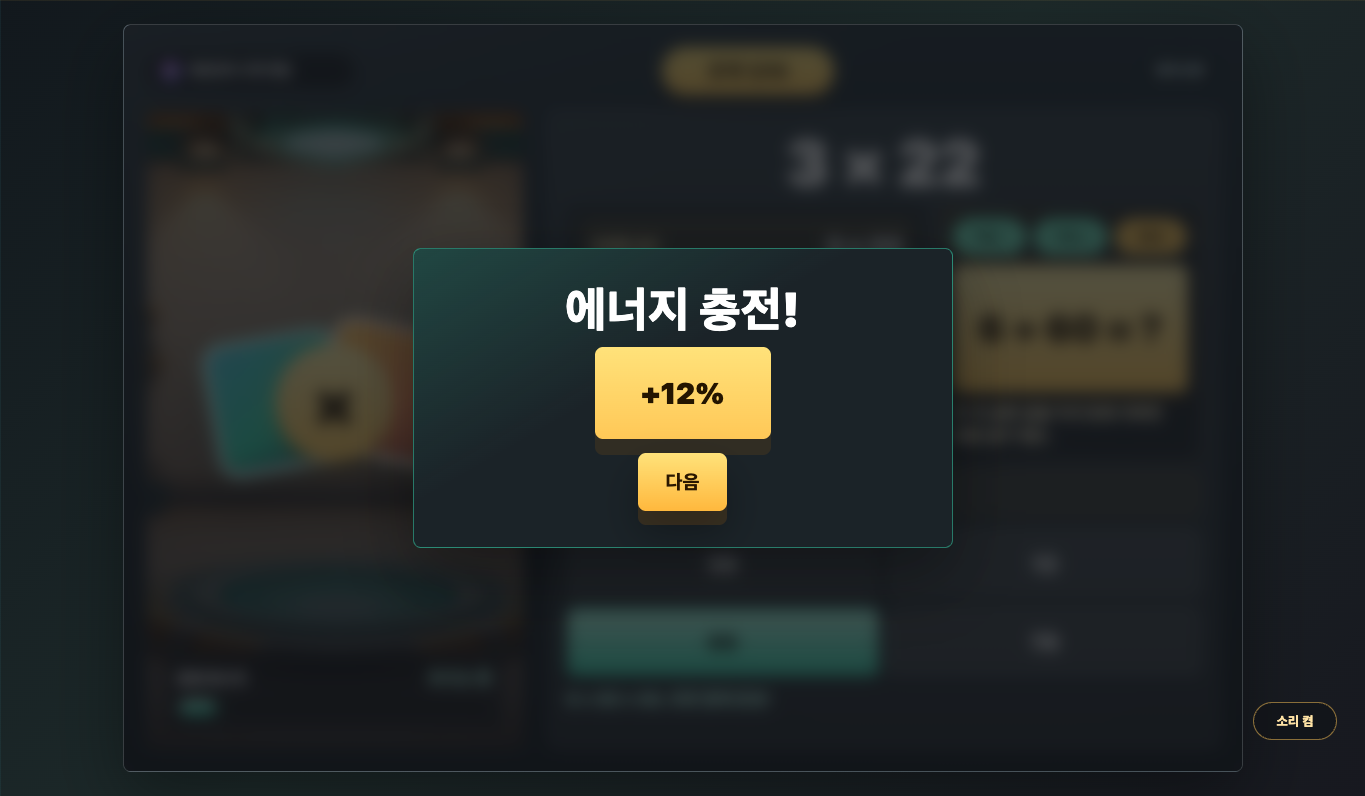
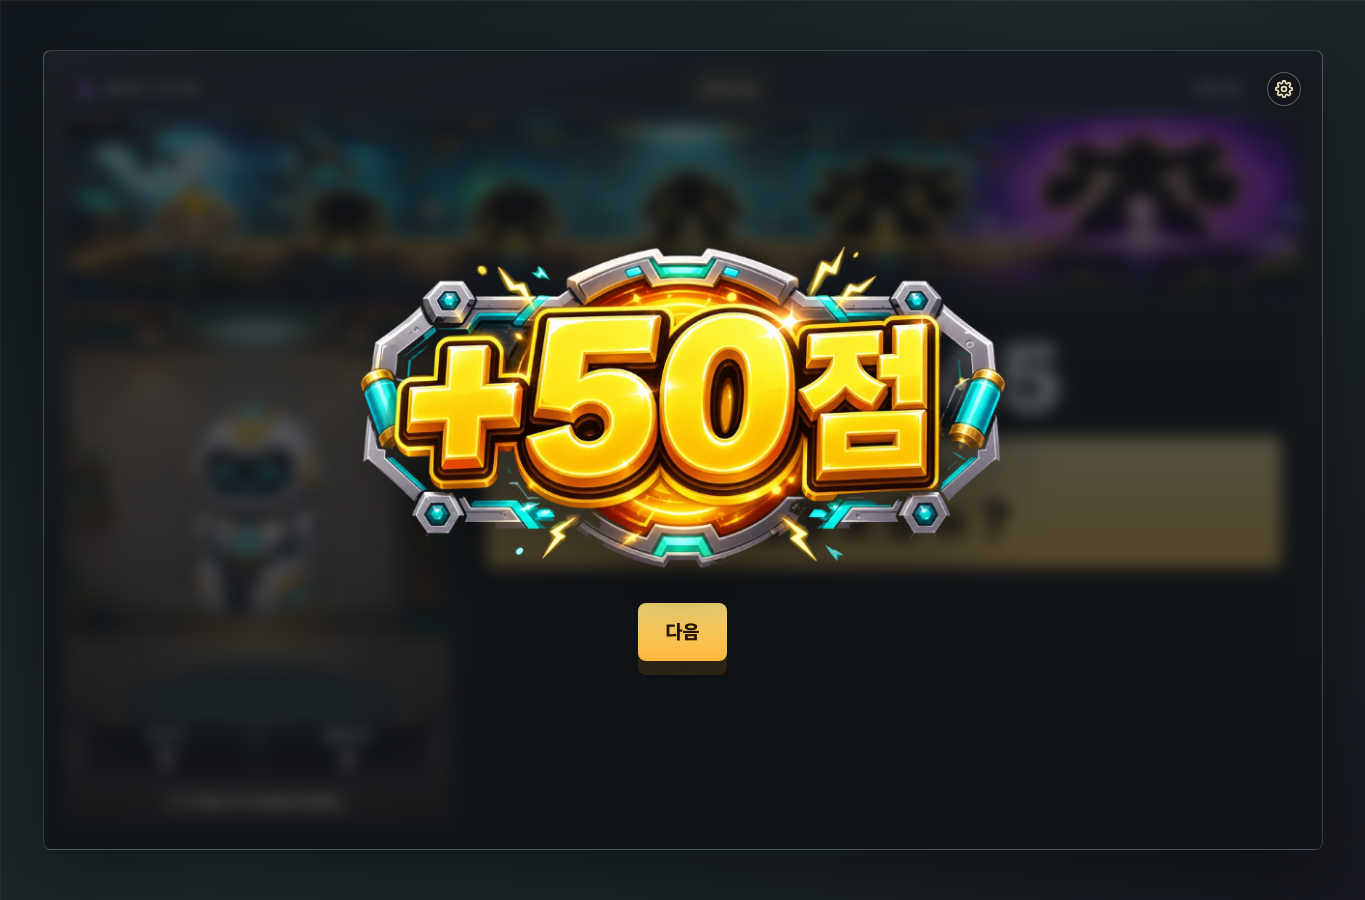
Update Fusion Reward Documentation

diff --git a/3-2-1-4-mathmon-fusion/README.md b/3-2-1-4-mathmon-fusion/README.md
@@ -21,7 +21,17 @@
 
 ## 화면
 
-스크린샷은 `screenshots/` 폴더에 저장합니다.
+대표 스크린샷은 `screenshots/` 폴더에 저장합니다.
+
+![첫 화면](screenshots/01-cover.png)
+
+![문제 화면](screenshots/03-problem.png)
+
+![보상 화면](screenshots/04-reward.png)
+
+![결과 화면](screenshots/05-result-success.png)
+
+최신 보상 화면은 생성형 점수 이미지가 배경 위에 바로 떠 보이도록 구성했습니다. 퍼센트 텍스트와 사각 카드 배경은 보이지 않고, `+50점`, `+100점`, `+200점`, `+500점`, `-50점`, `-100점`, `0점`, `무지개` 8개 점수 자산만 교체됩니다.
 
 ## RasterStage 이미지
 
@@ -44,11 +54,11 @@
 - `result-legend-generated.png/webp`: 무지개 코어 전설 로봇 매스몬 결과 화면
 - `result-retry-generated.png/webp`: 다시하기 결과 화면
 - `reward-score-*-source.png`: 보상 화면 고정 점수 이미지 생성 원본 8장
-- `reward-score-*-generated.webp`: 보상 화면 고정 점수 배포용 WebP 8장
+- `reward-score-*-generated.webp`: 보상 화면 고정 점수 배포용 투명 WebP 8장
 
 첫 화면과 결과 화면은 생성 이미지를 RasterStage 배경으로 씁니다. 첫 화면은 제목·목표·시작 버튼을 표준 오버레이로 두고, 결과 화면은 큰 `초거대 로봇!` 같은 등급 문구와 `9/10` 같은 정답 수를 생성형 이미지로 보여 줍니다. 단일 SVG 동적 레이어는 `100%`, `순위 보기`, `다시하기` 버튼 표면만 그립니다. 첫 화면은 `cover-robot-mathmon-generated.webp`를 사용해, 매스몬 자체가 둥글고 친근한 로봇형 캐릭터로 보이도록 했습니다.
 
-문제 화면은 생성 이미지 합체 공방 배경 위에 HTML/CSS 합체 보드를 올립니다. 상단 목표 지도는 3차시 지도처럼 생성 이미지가 로봇 실루엣과 합체 길을 담당합니다. 진행 상태는 하단바나 좌표 마커를 올리지 않고, 소형부터 전설까지 상태별 목표 지도 6장을 미리 준비해 현재 등급 로봇이 플랫폼에 등장한 이미지로 통째 교체합니다. 각 상태 이미지는 잘라 붙인 조각이 아니라 전체 목표판을 다시 생성한 배너라 로봇 주변 배경과 플랫폼 조명이 끊기지 않습니다. 교체 순간에는 강한 빛과 스캔 효과가 지나가 이미지가 바뀌는 티를 줄이고, 무지개 코어를 얻었을 때만 전설 로봇 이미지가 켜집니다. 보상 화면은 `+50점`, `+100점`, `+200점`, `+500점`, `-50점`, `-100점`, `0점`, `무지개` 생성형 점수 이미지 8장만 바꿔 보여 줍니다. 결과 화면 6장도 등급별 몸집, 색, 배경 에너지 차이가 분명하게 보이도록 다시 생성했습니다. 부품 1, 부품 2, 합체 수는 학생의 선택에 따라 채워지며, 마지막 단계에서 두 부품이 가운데로 합쳐지는 CSS 연출이 적용됩니다.
+문제 화면은 생성 이미지 합체 공방 배경 위에 HTML/CSS 합체 보드를 올립니다. 상단 목표 지도는 3차시 지도처럼 생성 이미지가 로봇 실루엣과 합체 길을 담당합니다. 진행 상태는 하단바나 좌표 마커를 올리지 않고, 소형부터 전설까지 상태별 목표 지도 6장을 미리 준비해 현재 등급 로봇이 플랫폼에 등장한 이미지로 통째 교체합니다. 각 상태 이미지는 잘라 붙인 조각이 아니라 전체 목표판을 다시 생성한 배너라 로봇 주변 배경과 플랫폼 조명이 끊기지 않습니다. 교체 순간에는 강한 빛과 스캔 효과가 지나가 이미지가 바뀌는 티를 줄이고, 무지개 코어를 얻었을 때만 전설 로봇 이미지가 켜집니다. 보상 화면은 `+50점`, `+100점`, `+200점`, `+500점`, `-50점`, `-100점`, `0점`, `무지개` 생성형 점수 이미지 8장만 바꿔 보여 줍니다. 이 점수 이미지는 투명 WebP라 보상 배경 위에 바로 떠 보이고, 네모 카드처럼 잘린 배경은 없습니다. 결과 화면 6장도 등급별 몸집, 색, 배경 에너지 차이가 분명하게 보이도록 다시 생성했습니다. 부품 1, 부품 2, 합체 수는 학생의 선택에 따라 채워지며, 마지막 단계에서 두 부품이 가운데로 합쳐지는 CSS 연출이 적용됩니다.
 
 ## 작업실 파일 구성
 
@@ -71,6 +81,8 @@
 
 - `screenshots/comparison-1-1-1-2-1-4.png`: 1-1, 1-2, 1-4 화면 비교
 - `screenshots/raster-assets-contact-sheet.png`: 최종 RasterStage 이미지 세트
+- `screenshots/reward-score-contact-sheet.png`: 보상 점수 이미지 8종 렌더링 상태
+- `screenshots/04-reward.png`, `screenshots/07-defect-reward.png`: 최신 투명 배경 보상 화면
 - `screenshots/08-result-retry.png`: 정답 수와 에너지가 부족한 재도전 결과
 
 ## 전국 순위 백엔드 연결

diff --git a/3-2-1-4-mathmon-fusion/REPORT.md b/3-2-1-4-mathmon-fusion/REPORT.md
@@ -41,6 +41,8 @@
 
 첫 화면은 `cover-generated.webp`를 RasterStage 배경으로 사용합니다. 로봇형 매스몬이 있는 대표 장면 위에 GPT Image로 만든 독립 타이틀 아트 `title-poster-generated.webp`를 얹고, 시작 버튼은 별도 생성형 버튼 자산 `start-button-generated.webp`로 보여 줍니다. 실제 클릭은 같은 크기의 HTML 버튼이 맡고, 접근성용 실제 제목은 숨김 텍스트로 유지합니다.
 
+![첫 화면](screenshots/01-cover.png)
+
 ### 설명 화면
 
 ![설명 화면](screenshots/02-tutorial.png)
@@ -57,15 +59,27 @@
 
 학생 풀이 흐름 QA에서는 기존 화면이 `46 × 19`와 `먼저 9와 곱해요`를 보여 주는 데서 멈춰, 학생이 왜 다음에 일의 자리와 곱하는지, 고른 값이 어디에 남는지 충분히 확인하기 어려운 상태로 판단했습니다. 수정 뒤에는 큰 흰 문제식의 윗수와 현재 아랫수 자리만 노란색으로 바뀌고 살짝 움직입니다. 현재 식 카드에는 `46 × 9 = ?`처럼 지금 풀 계산만 가운데에 보입니다. 정답 뒤에는 `9와 곱한 값은 414예요.`처럼 짧은 확인 문구와 왼쪽 부품 값이 먼저 바뀐 뒤 다음 단계로 넘어가게 했습니다.
 
+![문제 화면](screenshots/03-problem.png)
+
 ### 보상 화면
 
 한 문제의 3단계 계산이 끝나면 화면 중앙에 생성형 점수 이미지가 뜹니다. 보이는 값은 `+50점`, `+100점`, `+200점`, `+500점`, `-50점`, `-100점`, `0점`, `무지개` 8장으로 고정했습니다. 제목, 긴 설명, CSS 숫자는 보이지 않게 숨기고, 학생 화면에는 점수 이미지와 `다음` 또는 `결과 보기` 버튼만 남겼습니다.
 
 정답 문제는 여러 점수 이미지 중 하나가 랜덤으로 나오며, 문제 안에서 한 번이라도 틀리면 `-100점` 이미지만 나옵니다. `+500점`도 조기 종료가 아니라 큰 보상 이미지일 뿐이고, 어떤 보상이 떠도 10문제를 모두 푼 뒤에만 결과로 이동합니다. 내부 합체 힘 값은 기존 등급·순위 검증 범위를 유지해 백엔드 검증과 어긋나지 않게 했습니다.
 
+![정답 보상 화면](screenshots/04-reward.png)
+
+![오답 보상 화면](screenshots/07-defect-reward.png)
+
+8개 점수 이미지는 모두 투명 배경 WebP로 후처리했습니다. 그래서 보상 모달 위에서는 이미지 바깥 사각 배경이 보이지 않고, 생성형 타이틀 아트만 떠 있는 것처럼 보입니다.
+
+![보상 점수 이미지 8종](screenshots/reward-score-contact-sheet.png)
+
 ### 결과 화면
 
 결과 화면은 도달 등급별 RasterStage 배경 6장과 다시하기 배경 1장을 사용합니다. 소형, 중형, 대형, 거대, 초거대, 전설 합체 이미지가 따로 있으며, 등급이 올라갈수록 몸집, 색 포인트, 배경 에너지 효과가 분명히 커지도록 다시 생성했습니다. 큰 등급 문구는 `result-title-*-generated.webp` 생성형 타이틀 이미지가 맡고, 정답 수는 `_shared/result-count/result-correct-*-generated.webp` 생성형 숫자 이미지가 맡습니다. SVG 동적 레이어는 실제 합체 힘 값, `순위 보기`, `다시하기` 버튼 표면을 정확한 좌표에 그립니다. 실제 클릭은 투명 HTML hitbox가 맡습니다. 합체 힘 바와 버튼 사이에는 충분한 여백을 두어 붙어 보이지 않게 했습니다.
+
+![성공 결과 화면](screenshots/05-result-success.png)
 
 ### 결과 화면 QA
 

diff --git a/README.md b/README.md
@@ -4,6 +4,10 @@
 
 학생 화면에는 `AI Mart`라는 이름을 쓰지 않습니다. 학생에게 보이는 이름은 `에듀잇티 수학 게임`과 각 게임 제목만 사용합니다.
 
+## 최근 업데이트
+
+- `3-2-1-4-mathmon-fusion`: 보상 화면을 퍼센트 대신 `+50점`, `+100점`, `+200점`, `+500점`, `-50점`, `-100점`, `0점`, `무지개` 생성형 점수 이미지로 바꿨습니다. 배포용 WebP는 투명 배경으로 후처리해 보상 화면에서 네모 카드 배경이 보이지 않습니다.
+
 ## 폴더 구조
 
 ```text
